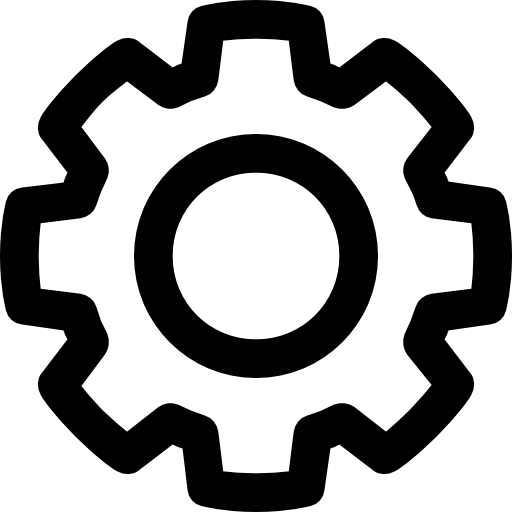
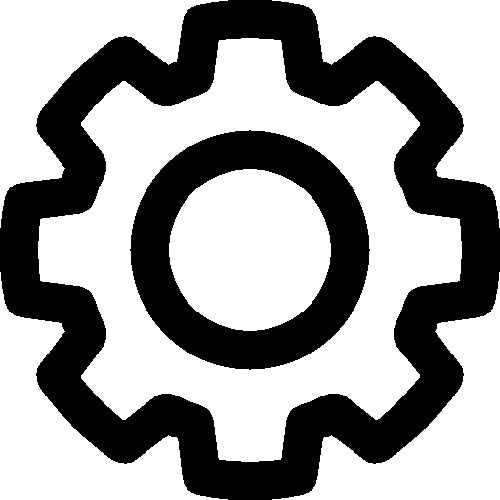
css 및 일부 마이페이지 로직 추가
상동

diff --git a/src/main/resources/static/js/main/main.js b/src/main/resources/static/js/main/main.js
@@ -1,5 +1,6 @@
 const tooltipTriggerList = document.querySelectorAll('[data-bs-toggle="tooltip"]')
 const tooltipList = [...tooltipTriggerList].map(tooltipTriggerEl => new bootstrap.Tooltip(tooltipTriggerEl))
+userGrade=null;
 $(document)
 .ready(isLogin)
 .ready(geoPosition)
@@ -35,7 +36,7 @@ $(document)
 .on("click", "#btn-storeSetting", showStoreSetting)
 .on("click", "#btn-backMain", gotoMain)
 .on("click", "#btn-saveMyTag", saveTag)
-
+.on("click", "#userReviewCount",showReviewSetting)
 
 
 $(".each_fcr").hover(function() {
@@ -100,6 +101,7 @@ function isLogin() {
 				createUI();
 				loginFlag = 1;
 				get_userInfo();
+				get_userReviewCount();
 			}	
 		}
 	})
@@ -706,34 +708,34 @@ function showTagSetting() {
 	$(".sf_filter").css("display", "block");
 	$(".div_reviewList").css("display", "none");
 	$(".div_storeList").css("display", "none");
-	$("#btn-pasSetting").css("color", "black");
-	$("#btn-pasSetting").css("background-color", "#ffffff");
+	$("#btn-pasSetting").css("color", "white");
+	$("#btn-pasSetting").css("background-color", "#15571e");
 	$("#btn-reviewSetting").css("color", "white");
-	$("#btn-reviewSetting").css("background-color", "#248624");
+	$("#btn-reviewSetting").css("background-color", "#06a64f");
 	$("#btn-storeSetting").css("color", "white");
-	$("#btn-storeSetting").css("background-color", "#248624");
+	$("#btn-storeSetting").css("background-color", "#06a64f");
 }
 function showReviewSetting(){
 	$(".sf_filter").css("display", "none");
 	$(".div_reviewList").css("display", "block");
 	$(".div_storeList").css("display", "none");
 	$("#btn-pasSetting").css("color", "white");
-	$("#btn-pasSetting").css("background-color", "#248624");
-	$("#btn-reviewSetting").css("color", "black");
-	$("#btn-reviewSetting").css("background-color", "#ffffff");
+	$("#btn-pasSetting").css("background-color", "#06a64f");
+	$("#btn-reviewSetting").css("color", "white");
+	$("#btn-reviewSetting").css("background-color", "#15571e");
 	$("#btn-storeSetting").css("color", "white");
-	$("#btn-storeSetting").css("background-color", "#248624");
+	$("#btn-storeSetting").css("background-color", "#06a64f");
 }
 function showStoreSetting(){
 	$(".sf_filter").css("display", "none");
 	$(".div_reviewList").css("display", "none");
 	$(".div_storeList").css("display", "block");
 	$("#btn-pasSetting").css("color", "white");
-	$("#btn-pasSetting").css("background-color", "#248624");
+	$("#btn-pasSetting").css("background-color", "#06a64f");
 	$("#btn-reviewSetting").css("color", "white");
-	$("#btn-reviewSetting").css("background-color", "#248624");
-	$("#btn-storeSetting").css("color", "black");
-	$("#btn-storeSetting").css("background-color", "#ffffff");
+	$("#btn-reviewSetting").css("background-color", "#06a64f");
+	$("#btn-storeSetting").css("color", "white");
+	$("#btn-storeSetting").css("background-color", "#15571e");
 }
 function gotoMain() {
 	document.location = "/main";
@@ -779,5 +781,46 @@ function checkTag() {
 		}
 	}
 }
+function get_userReviewCount() {
+	$.ajax({
+		url: "/get_userReviewCount",
+		type: "post",
+		dataType: "json",
+		success: function(reviewCheck) {
+			$("#userReviewCount").text(reviewCheck);
+			userGrade = parseInt(reviewCheck);
+			get_userGrade();
+		}
+	})
+}
+function get_userGrade() {
+
+	if (userGrade <= 5) {
+		// 은색 배경
+		$(".btn-userGrade").text("고마운 분");
+		$(".btn-userGrade").css("color", "#ffffff");
+		$(".btn-userGrade").addClass("silver-background");
+	}
+	if (userGrade >= 10) {
+		// 금색 배경
+		$(".btn-userGrade").text("반가운 분");
+		$(".btn-userGrade").css("color", "#ffffff");
+		$(".btn-userGrade").addClass("gold-background");
+	}
+	if (userGrade >= 15) {
+		// 플래티넘 배경
+		$(".btn-userGrade").text("소중한 분");
+		$(".btn-userGrade").css("color", "#ffffff");
+		$(".btn-userGrade").addClass("platinum-background");
+	}
+	if (userGrade >= 20) {
+		// 다이아몬드 배경
+		$(".btn-userGrade").text("귀하신 분");
+		$(".btn-userGrade").css("color", "#808080");
+		$(".btn-userGrade").addClass("diamond-background");
+		
+	}
+}
 	
+
 	

diff --git a/src/main/resources/static/css/main/mainmy.css b/src/main/resources/static/css/main/mainmy.css
@@ -31,10 +31,13 @@
 }
 #btn-GO-signUpdate{
   background-image: url("/img/main/setting.png");
+  background-color: transparent;
   background-repeat: no-repeat;
   background-size: cover;
+  border: none;
   width: 20px;
   height: 20px;
+  filter: invert(100%);
   
 }
 .profil_subarea{
@@ -51,16 +54,16 @@
 	width: 85px;
 	margin-right: 3px;
 	font-size: 13px;
-	border-radius: 10px;
-    background-color: #248624;
+	font-weight: bold;
+	border-radius: 5px;
+    background-color: #06a64f;
     color:white;
     border: none;
   
 }
 .btn-userSetting.pas{
-	color:black;
-	background-color: #ffffff;
-	
+	color:white;
+	background-color: #15571e;
 }
 #btn-saveMyTag { 
 	width: 70px;
@@ -68,11 +71,11 @@
 	text-align: center;
 	margin: 0 0 0 10px;
 	border-radius: 10px;
-	background-color: #008000;
+	background-color: #06a64f;
 	cursor: pointer;
 	font-size:15px;
 	font-weight: bold;
-	border: 2px solid #008000;
+	border: 2px solid #06a64f;
 	color: #ffffff;
 }
 .div_reviewList {
@@ -85,12 +88,52 @@
 	width: 50px;
 	margin-right: 3px;
 	font-size: 13px;
-	border-radius: 10px;
+	border-radius: 5px;
     background-color: #808080;
     color:white;
     border: none;
 }
+@keyframes shimmer {
+  0% {
+    background-position: -200% 0;
+  }
+  100% {
+    background-position: 200% 0;
+  }
+}
+.silver-background {
+  background: linear-gradient(to right, #eee 0%, #ccc 50%, #eee 100%);
+}
+
+.gold-background {
+  background: linear-gradient(to right, #FFD17E 0%, #FFB830 50%, #FFD17E 100%);
+}
+
+.platinum-background {
+  background: linear-gradient(to right, #B9F2FF 0%, #57C8E0 50%, #B9F2FF 100%);
+}
+
+.diamond-background {
+  background: linear-gradient(to right, #f8d7da, #fce8e8, #fff3cd, #f2f9de, #d8f4e5, #d0edf5, #d9d2e9);
+}
 .btn-userGrade {
   border: none;
-  color: #000;
+  font-weight: bold;
+  background-size: 200% auto;
+  animation: shimmer 2s infinite;
+}
+#userReviewCount {
+  font-weight: normal;
+  transition: font-weight 0.3s;
+  cursor: pointer;
+}
+
+#userReviewCount:hover {
+  font-weight: bold;
+  cursor: pointer;
+}
+.userMessage {
+	margin: 10px;
+	font-size: 15px; 
+	font-weight: bold;
 }

diff --git a/src/main/resources/static/css/main/main.css b/src/main/resources/static/css/main/main.css
@@ -145,7 +145,8 @@ body{
     z-index: 30;
     width: 350px;
     height: 150px;
-    background-color: #258fff;
+    background-color: rgb(32, 208, 94);
+   /* background-color: #258fff; */
 }
 .header {
     position: relative;

diff --git a/src/main/java/project/example/demo/member/MemberController.java b/src/main/java/project/example/demo/member/MemberController.java
@@ -275,5 +275,18 @@ public class MemberController {
 				this.messageService.sendOne(new SingleMessageSendingRequest(message));
 		return response;
 	}
+	
+	@PostMapping("/get_userReviewCount")
+	@ResponseBody
+	public String get_userReviewCount(HttpServletRequest req) {
+		HttpSession session = req.getSession();
+
+		String id = session.getAttribute("id").toString();
+		String reviewCheck = null;
+		Integer reviewCount = mdao.get_userReviewCount(id); 
+		reviewCheck = String.valueOf(reviewCount);
+
+		return reviewCheck;
+	}
 }
 

diff --git a/src/main/java/project/example/demo/member/MemberDAO.java b/src/main/java/project/example/demo/member/MemberDAO.java
@@ -20,6 +20,7 @@ public interface MemberDAO {
 
 	ArrayList<MemberDTO> get_signupInfo(String id);
 	void update_signup(String id, String pw, String name, String gender, String birth, String phone);
+	int get_userReviewCount(String id);
 	
 
 }
